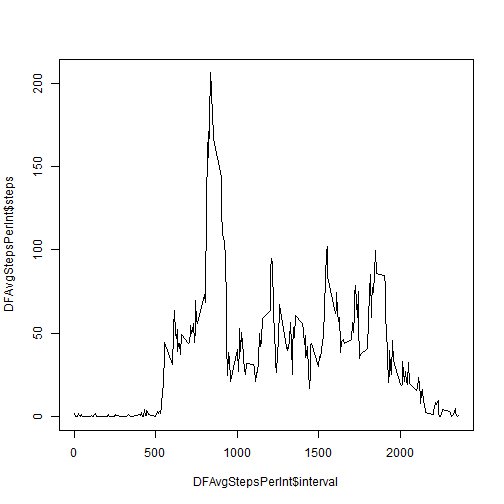
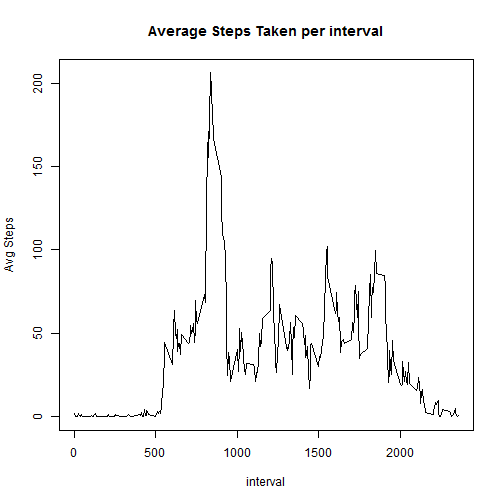
Submission ready for peer review

Changed region(s): [[0.2976, 0.0298, 0.7738, 0.0893], [0.3869, 0.9226, 0.6845, 0.9821], [0.0, 0.3274, 0.0298, 0.625]]

diff --git a/PA1_template.html b/PA1_template.html
@@ -226,10 +226,10 @@ The Median total number of steps taken per day is 10765</p>
 
 <p>Make a time series plot (i.e. type = &ldquo;l&rdquo;) of the 5-minute interval (x-axis) and the average number of steps taken, averaged across all days (y-axis)</p>
 
-<pre><code class="r">plot(DFAvgStepsPerInt$interval,DFAvgStepsPerInt$steps,type=&quot;l&quot; )
+<pre><code class="r">plot(DFAvgStepsPerInt$interval,DFAvgStepsPerInt$steps,type=&quot;l&quot;,xlab=&quot;interval&quot;,ylab=&quot;Avg Steps&quot; ,main=&quot;Average Steps Taken per interval&quot;)
 </code></pre>
 
[2 lines of base64/hex data omitted]
 
 <p>Calculate 5- Minute interval that has max avergate across all day. </p>
 

diff --git a/PA1_template.md b/PA1_template.md
@@ -54,7 +54,7 @@ Make a time series plot (i.e. type = "l") of the 5-minute interval (x-axis) and 
 
 
 ```r
-plot(DFAvgStepsPerInt$interval,DFAvgStepsPerInt$steps,type="l" )
+plot(DFAvgStepsPerInt$interval,DFAvgStepsPerInt$steps,type="l",xlab="interval",ylab="Avg Steps" ,main="Average Steps Taken per interval")
 ```
 
 ![plot of chunk fig2 plot time series for average daily activity pattern](figure/fig2 plot time series for average daily activity pattern.png) 
